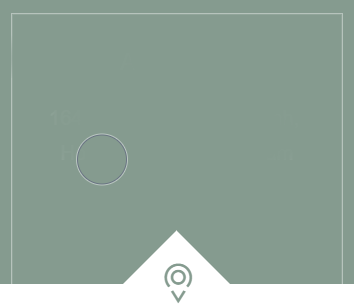
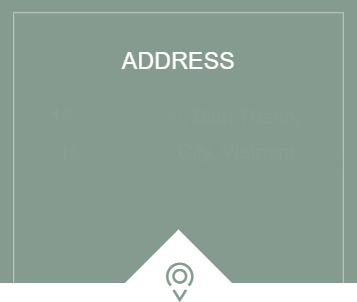
about.html completed

diff --git a/about.html b/about.html
@@ -8,11 +8,11 @@
     <meta name="author" content="">
     <link rel="icon" href="./images/01.ico">
     <title>Shrilok - About</title>
-	<link rel="stylesheet" media="screen" href="https://cdnjs.cloudflare.com/ajax/libs/twitter-bootstrap/3.3.5/css/bootstrap.min.css">
+	<link rel="stylesheet" href="https://stackpath.bootstrapcdn.com/bootstrap/4.3.1/css/bootstrap.min.css">
+<!--fontawesome cdn	-->
 	<link rel='stylesheet' href='https://use.fontawesome.com/releases/v5.7.0/css/all.css' integrity='sha384-lZN37f5QGtY3VHgisS14W3ExzMWZxybE1SJSEsQp9S+oqd12jhcu+A56Ebc1zFSJ' crossorigin='anonymous'>
 
-	<title>Minimum Bootstrap HTML Skeleton</title>
-
+	
 	<link rel="stylesheet" href="./css/about.css">
 
 
@@ -37,19 +37,17 @@
                     <div class="collapse navbar-collapse text-center" id="navbarSupportedContent">
                         <ul class=" navbar-nav mx-auto ">
                             <li class="nav-item">
-                                <a class="nav-link" href="./index.html">Home <span class="sr-only">(current)</span></a>
+                                <a class="nav-link" href="./index.html">Home</a>
                             </li>
                             <li class="nav-item">
                                 <a class="nav-link" href="./room.html">Accomodation</a>
                             </li>
-                            <li class="nav-item">
+                            <li class="nav-item active">
                                 <a class="nav-link" href="#">About Us</a>
                             </li>
-<!--
                             <li class="nav-item">
-                                <a class="nav-link" href="#">Packages</a>
+                                <a class="nav-link" href="./index.html#portfolio">Gallery</a>
                             </li>
--->
                             <li class="nav-item">
                                 <a class="nav-link" href="./contact.html">Contact </a>
                             </li>
@@ -69,21 +67,21 @@
     
     
     <!-- section-2 starts -->
-       <div class="row" style="overflow-x: hidden">
-           <div class="col-md-6" style="background-image: url(images/about/about1.jpg);background-position: center;background-size: cover;">
-               <h2 class="py-5">About Our Resort</h2>
-               <p class="py-5">Misty Mount staff know their customers love to eat in their room by placing the order by room service. Certainly, it is a luxurious way of relaxing and getting food served in the room. We pamper our guests and make sure they are served a nourishing, comforting hot meals in rooms. The staff do not feel they have to go an extra mile to clean up the remnants of the food. Often, the spillover in the bed necessitates changing the linen.</p>
+       <div class="section2 row py-5" style="overflow-x: hidden">
+           <div class="col-md-6 px-5">
+               <h2 class="py-5 text-center">About Our Resort</h2>
+               <p class="py-5 w-75 mx-auto text-center">Misty Mount staff know their customers love to eat in their room by placing the order by room service. Certainly, it is a luxurious way of relaxing and getting food served in the room. We pamper our guests and make sure they are served a nourishing, comforting hot meals in rooms. The staff do not feel they have to go an extra mile to clean up the remnants of the food. Often, the spillover in the bed necessitates changing the linen.</p>
            </div>
-           <div class="col-md-6" >
-               <img src="./images/about/about1.jpg" alt="">
+           <div class="about-r-img col-md-6" >
+              
            </div>
        </div>
     <!-- section-2 ends -->
     
     <!--section-3 starts-->
-       <div class="row">
+       <div class="section3 row w-100 py-5">
            <div class="col-md-6">
-               <img src="./images/about/about-img.jpg" alt="">
+               <img class="px-5" src="./images/about/about-img.jpg" alt="">
            </div>
            <div class="col-md-6">
                <h2>What do you want to do?</h2>

diff --git a/contact.html b/contact.html
@@ -9,7 +9,7 @@
     <meta name="author" content="">
     <link rel="icon" href="./images/01.ico">
     <title>Shrilok - Contact</title>
-	<link rel="stylesheet" media="screen" href="https://cdnjs.cloudflare.com/ajax/libs/twitter-bootstrap/3.3.5/css/bootstrap.min.css">
+	<link rel="stylesheet" href="https://stackpath.bootstrapcdn.com/bootstrap/4.3.1/css/bootstrap.min.css">
 
 	
 	<link rel="stylesheet" href="./css/contactus.css">
@@ -49,12 +49,10 @@
                             <li class="nav-item">
                                 <a class="nav-link" href="./about.html">About Us</a>
                             </li>
-<!--
                             <li class="nav-item">
-                                <a class="nav-link" href="#">Packages</a>
+                                <a class="nav-link" href="./index.html#portfolio">Gallery</a>
                             </li>
--->
-                            <li class="nav-item">
+                            <li class="nav-item active">
                                 <a class="nav-link" href="#">Contact </a>
                             </li>
                         </ul>
@@ -71,21 +69,54 @@
 
     <!-- Top banner ends-->
      <!--contact-->
-       <div class="row">
-           <div class="col-md-3">
-               <img src="./images/contact/img1.png" alt="">
+      <div class="contact row py-5">
+           <div class="col-md-3" >
+               <img src="./images/contact/img1.png" alt="" width="285" height="241">
            </div>
            <div class="col-md-3">
-               <img src="./images/contact/img2.png" alt="">
+               <img src="./images/contact/img2.png" alt="" width="285" height="240">
            </div>
            <div class="col-md-3">
-               <img src="./images/contact/img3.png" alt="">
+               <img src="./images/contact/img3.png" alt="" width="285" height="244">
            </div>
            <div class="col-md-3">
-               <img src="./images/contact/img4.png" alt="">
+               <img src="./images/contact/img4.png" alt="" width="285" height="240">
            </div>
        </div>
+       
      <!--contact ends-->
+     
+<!--section-3 start-->
+  
+     <div class="container my-5 py-3 text-center">
+            <h2>CONTACT INFORMATION</h2>
+            <p>Misty Mount Reservations is active from 06.00 am to 06.00 pm Indian Standard Time. From  0600 pm to 0600 am, contact admin at +91 1234567890 Email: reservations@Mistymount.com</p>
+     </div>
+  
+
+<!--section-3 ends-->
+    
+<!--section-4 starts-->
+<div class="row py-5">
+    <div class="form col-md-6 px-5" >
+    <h4> Send us Message</h4>
+    <form action="">
+        <input class="input my-1" type="text" name="name" value="NAME" style="">
+        <input class="input" type="email" name="e-mail" value="E-MAIL">
+        <br>
+        <input class="input my-1" type="tel" name="phone" value="PHONE">
+        <input class="input" type="text" name="subject" value="SUBJECT">
+        <br>
+        <textarea class="input my-1" name="message" value="MESSAGE" id="" cols="48" rows="10"></textarea>
+        <br>
+        <button class="my-1" type="button" style="background-color: grey">Send Equiry</button>
+    </form>
+    </div>
+    <div class="col-md-6 ">
+        <img src="./images/contact/map.png" alt="">
+    </div>
+</div>
+<!--section-4 ends-->
 
 	<!--Footer start  -->
 

diff --git a/room.html b/room.html
@@ -52,7 +52,7 @@
                             <li class="nav-item">
                                 <a class="nav-link" href="./index.html">Home <span class="sr-only">(current)</span></a>
                             </li>
-                            <li class="nav-item">
+                            <li class="nav-item active">
                                 <a class="nav-link" href="#">Accomodation</a>
                             </li>
                             <li class="nav-item">

diff --git a/css/contactus.css b/css/contactus.css
@@ -46,3 +46,23 @@
 }
 
 /*navbar ends*/
+/* section-2 start*/
+.contact{
+    padding-left: 180px;
+    padding-right: 180px
+}
+/*section-2 ends*/
+
+
+
+/*section-4 starts*/
+
+.form{
+    background-image: url(../images/nature-1.jpg);
+     background-size: cover;
+}
+.input{
+    background: none;
+    border: solid 2px black; color: gr;
+}
+/*section-4 ends*/

diff --git a/css/about.css b/css/about.css
@@ -46,3 +46,9 @@
 }
 
 /*navbar ends*/
+
+/*section-2 starts*/
+.about-r-img {
+ background-image: url(../images/about/about1.jpg)
+}
+/*section-2 ends*/
